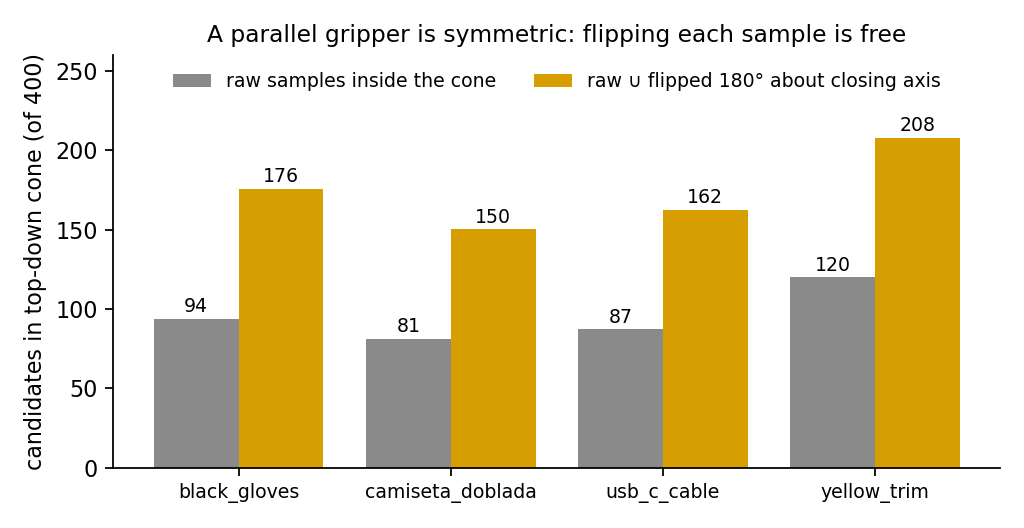
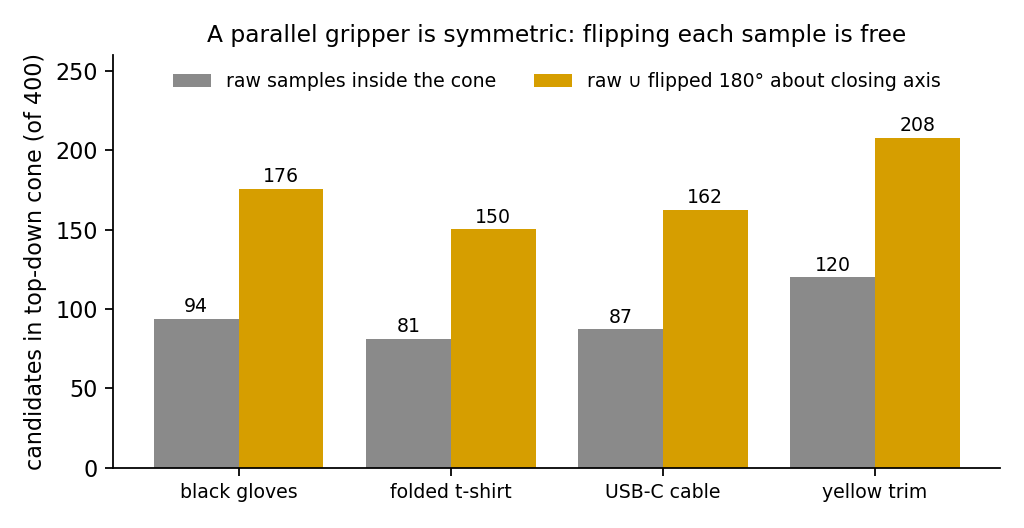
English object labels in the flip figure

diff --git a/scripts/make_figures.py b/scripts/make_figures.py
@@ -62,6 +62,8 @@ fig.tight_layout(); fig.savefig(os.path.join(F, "fig2_funnel_in_box.png"), dpi=1
 
 # ── 3. the 180° flip about the closing axis ─────────────────────────────────
 tr = list(csv.DictReader(open(os.path.join(D, "per_trace_summary.csv"))))
+NAMES = {"black_gloves": "black gloves", "camiseta_doblada": "folded t-shirt",
+         "usb_c_cable": "USB-C cable", "yellow_trim": "yellow trim"}
 objs = sorted(set(r["object"] for r in tr))
 mr = [np.mean([int(r["n_in_cone60"]) for r in tr if r["object"] == o]) for o in objs]
 mf = [np.mean([int(r["n_in_cone60_with_flip"]) for r in tr if r["object"] == o]) for o in objs]
@@ -71,7 +73,7 @@ ax.bar(x - 0.2, mr, 0.4, color=C_RAW, label="raw samples inside the cone")
 ax.bar(x + 0.2, mf, 0.4, color=C_FLIP, label="raw ∪ flipped 180° about closing axis")
 for i in range(len(objs)):
     ax.text(x[i] - 0.2, mr[i] + 4, f"{mr[i]:.0f}", ha="center", fontsize=8.5); ax.text(x[i] + 0.2, mf[i] + 4, f"{mf[i]:.0f}", ha="center", fontsize=8.5)
-ax.set_xticks(x); ax.set_xticklabels(objs, fontsize=8.5); ax.set_ylabel("candidates in top-down cone (of 400)")
+ax.set_xticks(x); ax.set_xticklabels([NAMES.get(o, o) for o in objs], fontsize=8.5); ax.set_ylabel("candidates in top-down cone (of 400)")
 ax.set_ylim(0, 260); ax.set_title("A parallel gripper is symmetric: flipping each sample is free", fontsize=10.5)
 ax.legend(fontsize=8.5, frameon=False, loc="upper center", ncol=2, bbox_to_anchor=(0.5, 1.0))
 fig.tight_layout(); fig.savefig(os.path.join(F, "fig3_flip.png"), dpi=160); plt.close(fig)
